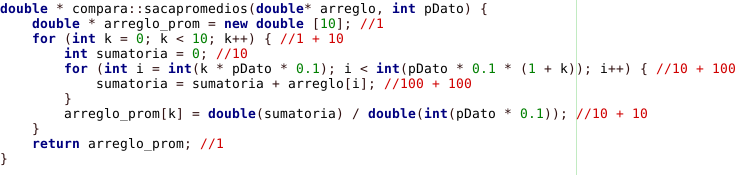
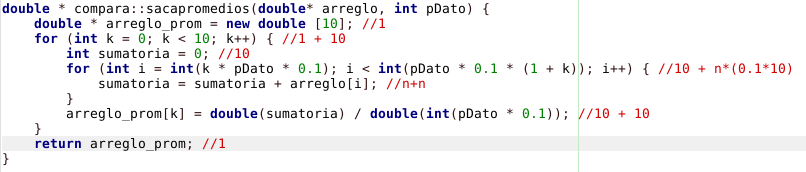
1

diff --git a/Documentacion_EDA/Docu/propuesta.tex b/Documentacion_EDA/Docu/propuesta.tex
@@ -208,11 +208,11 @@ en este algoritmo es de O(n).\\
 
 Otro de las secciones por analizar es la encargada de generar el arreglo de unos y ceros. En esta método sucede lo siguiente: primero se crea el arreglo
 de 10 posiciones, 1. Luego inicia un \textit{for} para esas 10 posiciones, 1 + 10. Dentro del \textit{for} se inicia una variable y otro nuevo \textit{for}
-de otras 10 posiciones, pero como ya están dentro de un \textit{for} el sumado es 10 + 10 + 100. En este segundo \textit{for} se produce la suma de los promedios, 100 + 100. Finalizado el segundo \textit{for} se almacena
-el dato obtenido en el arreglo de los promedios del primer \textit{for} en sus diez diferentes posiciones, 10 + 10. Y finalizado este primer \textit{for}, se retorna el arreglo, 1. Esto, para dar con una constante 353.\\
+de otras 10 posiciones, pero como ya están dentro de un \textit{for} el sumado es 10 + 10 + n. En este segundo \textit{for} se produce la suma de los promedios, n + n. Finalizado el segundo \textit{for} se almacena
+el dato obtenido en el arreglo de los promedios del primer \textit{for} en sus diez diferentes posiciones, 10 + 10. Y finalizado este primer \textit{for}, se retorna el arreglo, 1. Esto, para dar con una constante 3n + 53.\\
 
 Para comparar ambos arreglos de promedios, la función crea un nuevo arreglo, y comparando posiciones, utilizando \textit{if} y \textit{else}, llegando en final a una constante de 53 en un peor caso. Como se aprecia
-a lo largo del código, y posterior al método en la clase \textit{archivos}, se presentan órdenes de complejidad constantes, por lo que se puede
+a lo largo del código, y posterior al método en la clase \textit{archivos}, se presentan órdenes de complejidad constantes o con mayor orden de 3n, por lo que se puede
 mencionar que, en general, el algoritmo de comparación corresponde a un orden de complejidad de O(n).
 
 

diff --git a/presentacion_EDA/presentation_c++.tex b/presentacion_EDA/presentation_c++.tex
@@ -385,7 +385,7 @@ linea i = A[i];}\\~\\
 
 \end{figure}
 
-353
+3n + 53
 
 
 %----------------------------------------------------------------------------------------
@@ -402,7 +402,7 @@ linea i = A[i];}\\~\\
 
 53
 
-Total 406
+Total 3n + 106
 
 Orden de Complejidad es de O(n)
 
